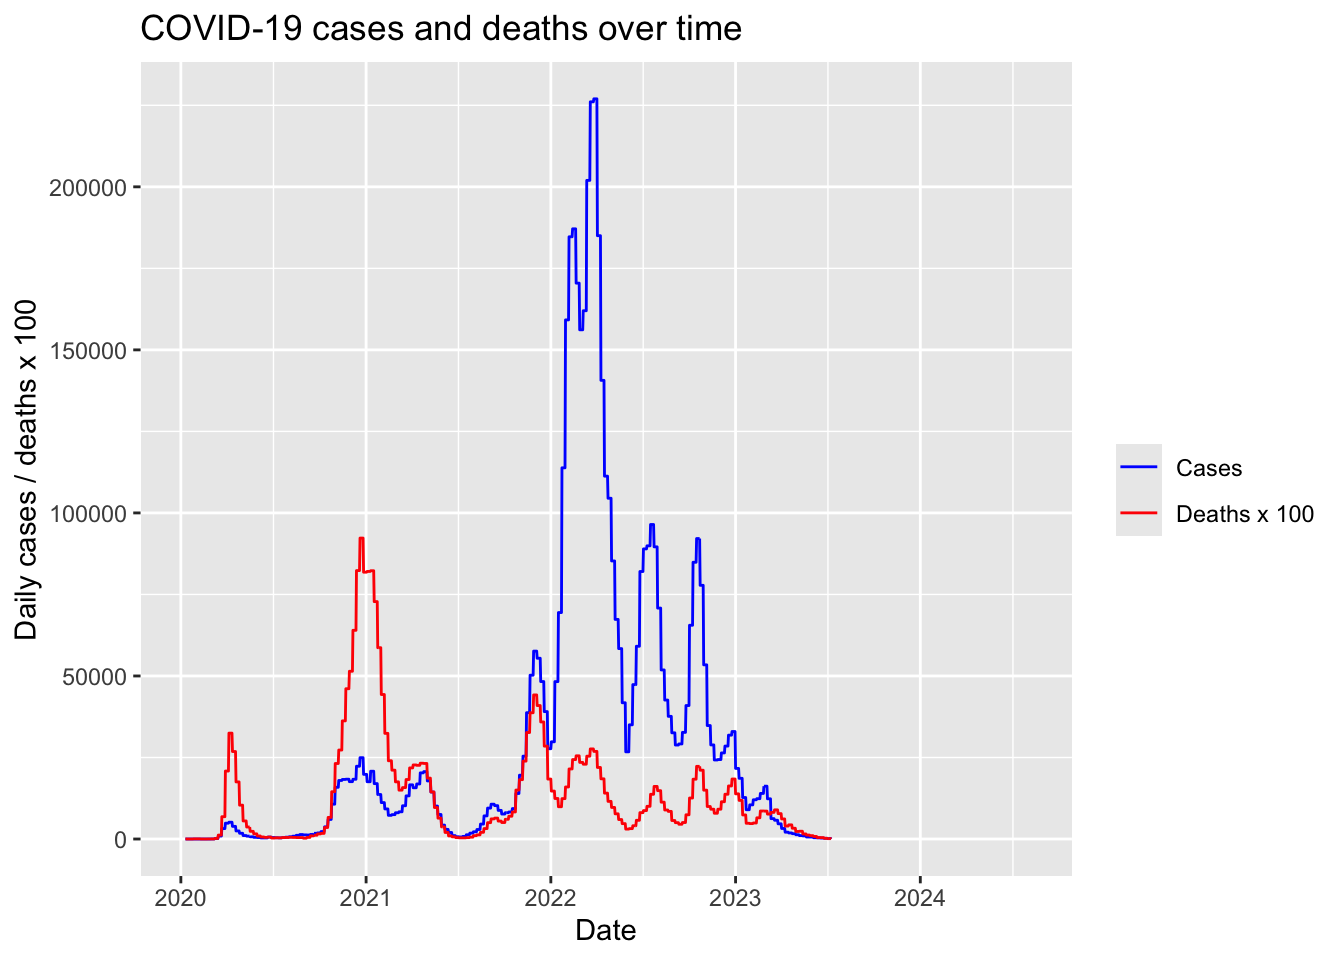
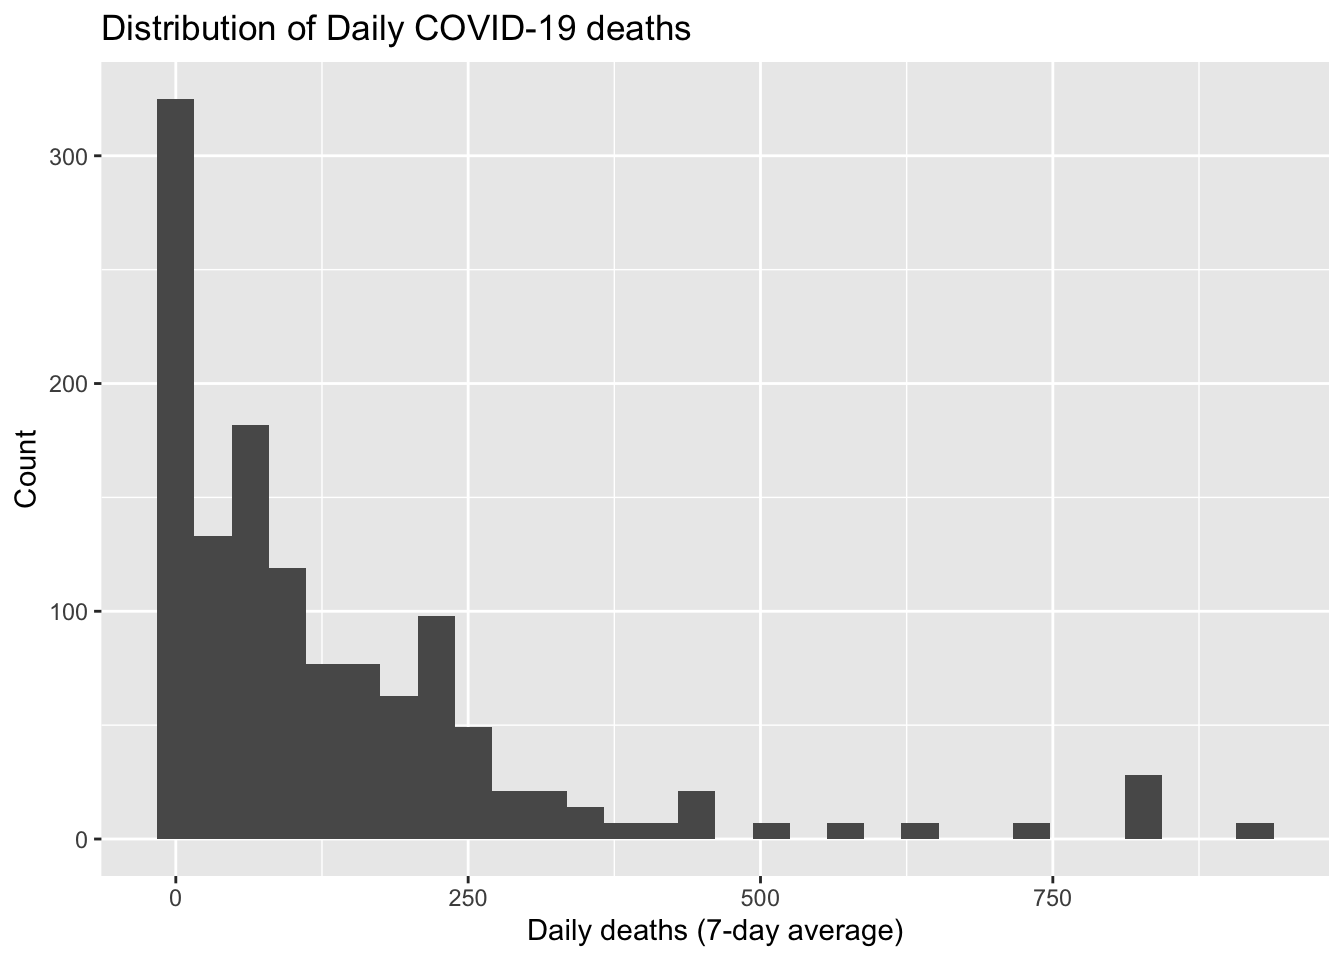
Built site for gh-pages

diff --git a/proposal_website.html b/proposal_website.html
@@ -167,7 +167,11 @@ pre > code.sourceCode > span > a:first-child::before { text-decoration: underlin
     <h2 id="toc-title">On this page</h2>
    
   <ul>
-  <li><a href="#research-questions" id="toc-research-questions" class="nav-link active" data-scroll-target="#research-questions">Research Questions</a>
+  <li><a href="#proposal-for-statprog2-projekt" id="toc-proposal-for-statprog2-projekt" class="nav-link active" data-scroll-target="#proposal-for-statprog2-projekt"><strong><em>Proposal for StatProg2 Projekt</em></strong></a>
+  <ul class="collapse">
+  <li><a href="#dataset-and-research-questions" id="toc-dataset-and-research-questions" class="nav-link" data-scroll-target="#dataset-and-research-questions">Dataset and research questions:</a></li>
+  <li><a href="#what-is-in-the-data-set" id="toc-what-is-in-the-data-set" class="nav-link" data-scroll-target="#what-is-in-the-data-set">What is in the data set?</a></li>
+  <li><a href="#research-questions" id="toc-research-questions" class="nav-link" data-scroll-target="#research-questions">Research Questions</a>
   <ul class="collapse">
   <li><a href="#question-1-how-did-vaccination-coverage-in-germany-develop-during-the-covid-19-pandemic" id="toc-question-1-how-did-vaccination-coverage-in-germany-develop-during-the-covid-19-pandemic" class="nav-link" data-scroll-target="#question-1-how-did-vaccination-coverage-in-germany-develop-during-the-covid-19-pandemic">Question 1: How did vaccination coverage in Germany develop during the COVID-19 pandemic?</a></li>
   <li><a href="#question-2-how-did-vaccination-coverage-relate-to-different-dimensions-of-covid-19-severity-in-germany" id="toc-question-2-how-did-vaccination-coverage-relate-to-different-dimensions-of-covid-19-severity-in-germany" class="nav-link" data-scroll-target="#question-2-how-did-vaccination-coverage-relate-to-different-dimensions-of-covid-19-severity-in-germany">Question 2: How did vaccination coverage relate to different dimensions of COVID-19 severity in Germany?</a></li>
@@ -183,6 +187,7 @@ pre > code.sourceCode > span > a:first-child::before { text-decoration: underlin
   <ul class="collapse">
   <li><a href="#research-question-1" id="toc-research-question-1" class="nav-link" data-scroll-target="#research-question-1">Research Question 1</a></li>
   </ul></li>
+  </ul></li>
   </ul>
 </nav>
     </div>
@@ -192,13 +197,91 @@ pre > code.sourceCode > span > a:first-child::before { text-decoration: underlin
 
 
 
+<section id="proposal-for-statprog2-projekt" class="level1">
+<h1><strong><em>Proposal for StatProg2 Projekt</em></strong></h1>
+<section id="by-lukas-seibold-and-felix-obermaier" class="level4">
+<h4 class="anchored" data-anchor-id="by-lukas-seibold-and-felix-obermaier">by Lukas Seibold and Felix Obermaier</h4>
+</section>
+<section id="dataset-and-research-questions" class="level2">
+<h2 class="anchored" data-anchor-id="dataset-and-research-questions">Dataset and research questions:</h2>
+<ul>
+<li><p><strong>Source and licence:</strong></p>
+<ul>
+<li><p>The Data set is from the following website: <a href="https://ourworldindata.org/explorers/covid?Metric=Excess+mortality+%28estimates%29&amp;Interval=Cumulative&amp;Relative+to+population=true&amp;country=USA~BRA~JPN~DEU">OWID - Covid Dataset</a></p></li>
+<li><p>It can be downloaded in the following github repository: <a href="https://github.com/owid/covid-19-data/tree/master/public/data">OWID - github repository COVID</a></p></li>
+<li><p>The dataset is called owid-covid-data.csv</p></li>
+<li><p>The Dataset contains all Data on Covid in the years 2020 - 2024 in all countries of the world</p></li>
+<li><p>We decided we only want to look at german Data on covid so we filtered it by country</p></li>
+<li><p>Then we cleaned it, by removing all variables, that only contained NAs (6 variables removed)</p></li>
+<li><p>We documented the complete cleaning process in a seperate file called data_cleaning_covid.qmd, which can be found in our github repository. All of the data we used is stored there as well in the folder “data”.</p></li>
+</ul></li>
+</ul>
+<div class="cell">
+<div class="code-copy-outer-scaffold"><div class="sourceCode cell-code" id="cb1"><pre class="sourceCode r code-with-copy"><code class="sourceCode r"><span id="cb1-1"><a href="#cb1-1" aria-hidden="true" tabindex="-1"></a><span class="fu">library</span>(readr)</span>
+<span id="cb1-2"><a href="#cb1-2" aria-hidden="true" tabindex="-1"></a><span class="fu">library</span>(tidyverse)</span>
+<span id="cb1-3"><a href="#cb1-3" aria-hidden="true" tabindex="-1"></a></span>
+<span id="cb1-4"><a href="#cb1-4" aria-hidden="true" tabindex="-1"></a>covid_germany <span class="ot">&lt;-</span> <span class="fu">read_delim</span>(<span class="st">"data/covid_germany.csv"</span>)</span></code></pre></div><button title="Copy to Clipboard" class="code-copy-button"><i class="bi"></i></button></div>
+</div>
+<ul>
+<li><p><strong>Licence:</strong></p>
+<ul>
+<li><p>The <em>Our World in Data Covid Dataset</em> combines COVID-19 data from several official and scientific sources, including:</p>
+<ul>
+<li><p><a href="https://github.com/CSSEGISandData/COVID-19?utm_source=chatgpt.com">Johns Hopkins University (JHU CSSE)</a> for confirmed cases and deaths</p></li>
+<li><p>official national health authorities for vaccination and hospitalization data</p></li>
+<li><p>the <a href="https://www.bsg.ox.ac.uk/research/research-projects/covid-19-government-response-tracker?utm_source=chatgpt.com">Oxford COVID‑19 Government Response Tracker</a> for policy measures</p></li>
+<li><p>international organizations such as the UN, World Bank, OECD, and IHME for demographic and socioeconomic indicators.</p></li>
+</ul>
+<p>The dataset is published under the <strong>Creative Commons Attribution (CC BY) license</strong>.</p>
+<p>This license allows users to:</p>
+<ul>
+<li><p>use the data freely,</p></li>
+<li><p>copy and redistribute it,</p></li>
+<li><p>modify and adapt it,</p></li>
+<li><p>use it commercially,</p></li>
+<li><p>and include it in research or presentations,</p></li>
+</ul>
+<p>as long as proper attribution to Our World in Data and the original data sources is provided.</p></li>
+</ul></li>
+</ul>
+</section>
+<section id="what-is-in-the-data-set" class="level2">
+<h2 class="anchored" data-anchor-id="what-is-in-the-data-set">What is in the data set?</h2>
+<p>The data set contains daily COVID-19 observations for Germany from January 2020 until August 2024.</p>
+<ul>
+<li>Number of rows: 1674</li>
+<li>Number of columns: 61</li>
+</ul>
+<p>Each row represents one day of reported COVID-19 data in Germany.</p>
+<p>The data set includes information on:</p>
+<ul>
+<li>COVID-19 cases (e.g.&nbsp;<code>total_cases</code>, <code>new_cases</code>, <code>new_cases_smoothed</code>)</li>
+<li>COVID-19 deaths (e.g.&nbsp;<code>total_deaths</code>, <code>new_deaths</code>)</li>
+<li>Reproduction rate (<code>reproduction_rate</code>)</li>
+<li>Hospital and ICU patients (<code>hosp_patients</code>, <code>icu_patients</code>)</li>
+<li>Vaccination indicators</li>
+<li>Testing statistics</li>
+<li>Socioeconomic indicators and demographic variables</li>
+</ul>
+<p>The key variables we expect to use are:</p>
+<ul>
+<li><code>date</code></li>
+<li><code>new_cases</code></li>
+<li><code>new_cases_smoothed</code></li>
+<li><code>total_cases</code></li>
+<li><code>new_deaths</code></li>
+<li><code>total_deaths</code></li>
+<li><code>reproduction_rate</code></li>
+</ul>
+<p>Throughout this project, we primarily use the smoothed variables provided in the dataset whenever they are available. Daily COVID-19 data are affected by reporting delays and systematic weekend effects, which can introduce artificial fluctuations in the time series. The smoothed variables reduce these short-term irregularities and therefore provide a better representation of the underlying trends that are relevant for our analyses. Unless otherwise stated, all analyses are based on the smoothed versions of the variables.</p>
+</section>
 <section id="research-questions" class="level2">
 <h2 class="anchored" data-anchor-id="research-questions">Research Questions</h2>
 <section id="question-1-how-did-vaccination-coverage-in-germany-develop-during-the-covid-19-pandemic" class="level3">
 <h3 class="anchored" data-anchor-id="question-1-how-did-vaccination-coverage-in-germany-develop-during-the-covid-19-pandemic">Question 1: How did vaccination coverage in Germany develop during the COVID-19 pandemic?</h3>
 <p>We will analyse <code>people_fully_vaccinated_per_hundred</code> together with <code>new_vaccinations_smoothed</code> and <code>date</code>, to analyse the development of COVID-19 vaccination coverage in Germany. Using line plots and descriptive statistics, we will identify the start of the vaccination campaign, periods of rapid vaccine uptake, peak vaccination activity, and the later plateau in vaccination coverage.</p>
 <p><strong>Goal:</strong> Descriptive</p>
-<p><strong>Type:</strong> Confirmatory</p>
+<p><strong>Type:</strong> Exploratory</p>
 <hr>
 </section>
 <section id="question-2-how-did-vaccination-coverage-relate-to-different-dimensions-of-covid-19-severity-in-germany" class="level3">
@@ -241,29 +324,29 @@ pre > code.sourceCode > span > a:first-child::before { text-decoration: underlin
 <h4 class="anchored" data-anchor-id="structure-of-the-data">Structure of the data</h4>
 <p>We use <code>glimpse()</code> to confirm the dimensions and data types of our key variables.</p>
 <div class="cell">
-<div class="code-copy-outer-scaffold"><div class="sourceCode cell-code" id="cb1"><pre class="sourceCode r code-with-copy"><code class="sourceCode r"><span id="cb1-1"><a href="#cb1-1" aria-hidden="true" tabindex="-1"></a>covid_germany <span class="sc">%&gt;%</span></span>
-<span id="cb1-2"><a href="#cb1-2" aria-hidden="true" tabindex="-1"></a>  <span class="fu">select</span>(</span>
-<span id="cb1-3"><a href="#cb1-3" aria-hidden="true" tabindex="-1"></a>    date, total_cases, new_cases, new_cases_smoothed,</span>
-<span id="cb1-4"><a href="#cb1-4" aria-hidden="true" tabindex="-1"></a>    total_deaths, new_deaths, new_deaths_smoothed,</span>
-<span id="cb1-5"><a href="#cb1-5" aria-hidden="true" tabindex="-1"></a>    reproduction_rate, icu_patients, hosp_patients,</span>
-<span id="cb1-6"><a href="#cb1-6" aria-hidden="true" tabindex="-1"></a>    people_vaccinated_per_hundred, people_fully_vaccinated_per_hundred,</span>
-<span id="cb1-7"><a href="#cb1-7" aria-hidden="true" tabindex="-1"></a>    stringency_index</span>
-<span id="cb1-8"><a href="#cb1-8" aria-hidden="true" tabindex="-1"></a>  ) <span class="sc">%&gt;%</span></span>
-<span id="cb1-9"><a href="#cb1-9" aria-hidden="true" tabindex="-1"></a>  <span class="fu">glimpse</span>()</span></code></pre></div><button title="Copy to Clipboard" class="code-copy-button"><i class="bi"></i></button></div>
+<div class="code-copy-outer-scaffold"><div class="sourceCode cell-code" id="cb2"><pre class="sourceCode r code-with-copy"><code class="sourceCode r"><span id="cb2-1"><a href="#cb2-1" aria-hidden="true" tabindex="-1"></a>covid_germany <span class="sc">%&gt;%</span></span>
+<span id="cb2-2"><a href="#cb2-2" aria-hidden="true" tabindex="-1"></a>  <span class="fu">select</span>(</span>
+<span id="cb2-3"><a href="#cb2-3" aria-hidden="true" tabindex="-1"></a>    date, total_cases, new_cases, new_cases_smoothed,</span>
+<span id="cb2-4"><a href="#cb2-4" aria-hidden="true" tabindex="-1"></a>    total_deaths, new_deaths, new_deaths_smoothed,</span>
+<span id="cb2-5"><a href="#cb2-5" aria-hidden="true" tabindex="-1"></a>    reproduction_rate, icu_patients,</span>
+<span id="cb2-6"><a href="#cb2-6" aria-hidden="true" tabindex="-1"></a>    people_vaccinated_per_hundred, people_fully_vaccinated_per_hundred,</span>
+<span id="cb2-7"><a href="#cb2-7" aria-hidden="true" tabindex="-1"></a>    stringency_index</span>
+<span id="cb2-8"><a href="#cb2-8" aria-hidden="true" tabindex="-1"></a>  ) <span class="sc">%&gt;%</span></span>
+<span id="cb2-9"><a href="#cb2-9" aria-hidden="true" tabindex="-1"></a>  <span class="fu">glimpse</span>()</span></code></pre></div><button title="Copy to Clipboard" class="code-copy-button"><i class="bi"></i></button></div>
 </div>
 <p>The structure matches our expectations: <code>date</code> is read as a proper <code>date</code> type and all measurement and count variables are numeric. Cumulative variables (<code>total_cases</code>, <code>total_deaths</code>) are present from the start, while smoothed, reproduction, ICU, and vaccination variables only begin later in the pandemic, which is reflected in the leading <code>NA</code> values.</p>
 </section>
 <section id="summary-statistics-for-key-variables" class="level4">
 <h4 class="anchored" data-anchor-id="summary-statistics-for-key-variables">Summary statistics for key variables</h4>
 <div class="cell">
-<div class="code-copy-outer-scaffold"><div class="sourceCode cell-code" id="cb2"><pre class="sourceCode r code-with-copy"><code class="sourceCode r"><span id="cb2-1"><a href="#cb2-1" aria-hidden="true" tabindex="-1"></a>covid_germany <span class="sc">%&gt;%</span></span>
-<span id="cb2-2"><a href="#cb2-2" aria-hidden="true" tabindex="-1"></a>  <span class="fu">select</span>(</span>
-<span id="cb2-3"><a href="#cb2-3" aria-hidden="true" tabindex="-1"></a>    new_cases, new_cases_smoothed, new_deaths, new_deaths_smoothed,</span>
-<span id="cb2-4"><a href="#cb2-4" aria-hidden="true" tabindex="-1"></a>    reproduction_rate, icu_patients,</span>
-<span id="cb2-5"><a href="#cb2-5" aria-hidden="true" tabindex="-1"></a>    people_vaccinated_per_hundred, people_fully_vaccinated_per_hundred,</span>
-<span id="cb2-6"><a href="#cb2-6" aria-hidden="true" tabindex="-1"></a>    stringency_index</span>
-<span id="cb2-7"><a href="#cb2-7" aria-hidden="true" tabindex="-1"></a>  ) <span class="sc">%&gt;%</span></span>
-<span id="cb2-8"><a href="#cb2-8" aria-hidden="true" tabindex="-1"></a>  <span class="fu">summary</span>()</span></code></pre></div><button title="Copy to Clipboard" class="code-copy-button"><i class="bi"></i></button></div>
+<div class="code-copy-outer-scaffold"><div class="sourceCode cell-code" id="cb3"><pre class="sourceCode r code-with-copy"><code class="sourceCode r"><span id="cb3-1"><a href="#cb3-1" aria-hidden="true" tabindex="-1"></a>covid_germany <span class="sc">%&gt;%</span></span>
+<span id="cb3-2"><a href="#cb3-2" aria-hidden="true" tabindex="-1"></a>  <span class="fu">select</span>(</span>
+<span id="cb3-3"><a href="#cb3-3" aria-hidden="true" tabindex="-1"></a>    new_cases, new_cases_smoothed, new_deaths, new_deaths_smoothed,</span>
+<span id="cb3-4"><a href="#cb3-4" aria-hidden="true" tabindex="-1"></a>    reproduction_rate, icu_patients,</span>
+<span id="cb3-5"><a href="#cb3-5" aria-hidden="true" tabindex="-1"></a>    people_vaccinated_per_hundred, people_fully_vaccinated_per_hundred,</span>
+<span id="cb3-6"><a href="#cb3-6" aria-hidden="true" tabindex="-1"></a>    stringency_index</span>
+<span id="cb3-7"><a href="#cb3-7" aria-hidden="true" tabindex="-1"></a>  ) <span class="sc">%&gt;%</span></span>
+<span id="cb3-8"><a href="#cb3-8" aria-hidden="true" tabindex="-1"></a>  <span class="fu">summary</span>()</span></code></pre></div><button title="Copy to Clipboard" class="code-copy-button"><i class="bi"></i></button></div>
 </div>
 <p>The table below reports the main summary statistics together with the number of missing values per variable.</p>
 <table class="caption-top table">
@@ -371,7 +454,7 @@ pre > code.sourceCode > span > a:first-child::before { text-decoration: underlin
 <div class="cell-output-display">
 <div>
 <figure class="figure">
-<p><img src="proposal_website_files/figure-html/unnamed-chunk-3-1.png" class="img-fluid figure-img" width="672"></p>
+<p><img src="proposal_website_files/figure-html/unnamed-chunk-4-1.png" class="img-fluid figure-img" width="672"></p>
 </figure>
 </div>
 </div>
@@ -387,7 +470,7 @@ Removed 397 rows containing missing values or values outside the scale range
 <div class="cell-output-display">
 <div>
 <figure class="figure">
-<p><img src="proposal_website_files/figure-html/unnamed-chunk-4-1.png" class="img-fluid figure-img" width="672"></p>
+<p><img src="proposal_website_files/figure-html/unnamed-chunk-5-1.png" class="img-fluid figure-img" width="672"></p>
 </figure>
 </div>
 </div>
@@ -438,72 +521,7 @@ Removed 397 rows containing missing values or values outside the scale range
 <section id="can-the-data-support-our-rq1-sanity-check" class="level4">
 <h4 class="anchored" data-anchor-id="can-the-data-support-our-rq1-sanity-check">Can the data support our RQ1? – Sanity Check</h4>
 <div class="cell">
-<div class="code-copy-outer-scaffold"><div class="sourceCode cell-code" id="cb5"><pre class="sourceCode r code-with-copy"><code class="sourceCode r"><span id="cb5-1"><a href="#cb5-1" aria-hidden="true" tabindex="-1"></a><span class="fu">glimpse</span>(covid_germany)</span></code></pre></div><button title="Copy to Clipboard" class="code-copy-button"><i class="bi"></i></button></div>
-<div class="cell-output cell-output-stdout">
-<pre><code>Rows: 1,674
-Columns: 61
-$ iso_code                                   &lt;chr&gt; "DEU", "DEU", "DEU", "DEU",…
-$ continent                                  &lt;chr&gt; "Europe", "Europe", "Europe…
-$ location                                   &lt;chr&gt; "Germany", "Germany", "Germ…
-$ date                                       &lt;date&gt; 2020-01-05, 2020-01-06, 20…
-$ total_cases                                &lt;dbl&gt; 1, 1, 1, 1, 1, 1, 1, 1, 1, …
-$ new_cases                                  &lt;dbl&gt; 1, 0, 0, 0, 0, 0, 0, 0, 0, …
-$ new_cases_smoothed                         &lt;dbl&gt; NA, NA, NA, NA, NA, 0.14, 0…
-$ total_deaths                               &lt;dbl&gt; 3, 3, 3, 3, 3, 3, 3, 3, 3, …
-$ new_deaths                                 &lt;dbl&gt; 3, 0, 0, 0, 0, 0, 0, 0, 0, …
-$ new_deaths_smoothed                        &lt;dbl&gt; NA, NA, NA, NA, NA, 0.43, 0…
-$ total_cases_per_million                    &lt;dbl&gt; 0.01, 0.01, 0.01, 0.01, 0.0…
-$ new_cases_per_million                      &lt;dbl&gt; 0.01, 0.00, 0.00, 0.00, 0.0…
-$ new_cases_smoothed_per_million             &lt;dbl&gt; NA, NA, NA, NA, NA, 0, 0, 0…
-$ total_deaths_per_million                   &lt;dbl&gt; 0.04, 0.04, 0.04, 0.04, 0.0…
-$ new_deaths_per_million                     &lt;dbl&gt; 0.04, 0.00, 0.00, 0.00, 0.0…
-$ new_deaths_smoothed_per_million            &lt;dbl&gt; NA, NA, NA, NA, NA, 0, 0, 0…
-$ reproduction_rate                          &lt;dbl&gt; NA, NA, NA, NA, NA, NA, NA,…
-$ icu_patients                               &lt;dbl&gt; NA, NA, NA, NA, NA, NA, NA,…
-$ icu_patients_per_million                   &lt;dbl&gt; NA, NA, NA, NA, NA, NA, NA,…
-$ weekly_icu_admissions                      &lt;dbl&gt; NA, NA, NA, NA, NA, NA, NA,…
-$ weekly_icu_admissions_per_million          &lt;dbl&gt; NA, NA, NA, NA, NA, NA, NA,…
-$ weekly_hosp_admissions                     &lt;dbl&gt; NA, NA, NA, NA, NA, NA, NA,…
-$ weekly_hosp_admissions_per_million         &lt;dbl&gt; NA, NA, NA, NA, NA, NA, NA,…
-$ total_tests                                &lt;dbl&gt; NA, NA, NA, NA, NA, NA, NA,…
-$ total_tests_per_thousand                   &lt;dbl&gt; NA, NA, NA, NA, NA, NA, NA,…
-$ new_tests_smoothed                         &lt;dbl&gt; NA, NA, NA, NA, NA, NA, NA,…
-$ new_tests_smoothed_per_thousand            &lt;dbl&gt; NA, NA, NA, NA, NA, NA, NA,…
-$ positive_rate                              &lt;dbl&gt; NA, NA, NA, NA, NA, NA, NA,…
-$ tests_per_case                             &lt;dbl&gt; NA, NA, NA, NA, NA, NA, NA,…
-$ tests_units                                &lt;chr&gt; NA, NA, NA, NA, NA, NA, NA,…
-$ total_vaccinations                         &lt;dbl&gt; NA, NA, NA, NA, NA, NA, NA,…
-$ people_vaccinated                          &lt;dbl&gt; NA, NA, NA, NA, NA, NA, NA,…
-$ people_fully_vaccinated                    &lt;dbl&gt; NA, NA, NA, NA, NA, NA, NA,…
-$ total_boosters                             &lt;dbl&gt; NA, NA, NA, NA, NA, NA, NA,…
-$ new_vaccinations                           &lt;dbl&gt; NA, NA, NA, NA, NA, NA, NA,…
-$ new_vaccinations_smoothed                  &lt;dbl&gt; NA, NA, NA, NA, NA, NA, NA,…
-$ total_vaccinations_per_hundred             &lt;dbl&gt; NA, NA, NA, NA, NA, NA, NA,…
-$ people_vaccinated_per_hundred              &lt;dbl&gt; NA, NA, NA, NA, NA, NA, NA,…
-$ people_fully_vaccinated_per_hundred        &lt;dbl&gt; NA, NA, NA, NA, NA, NA, NA,…
-$ total_boosters_per_hundred                 &lt;dbl&gt; NA, NA, NA, NA, NA, NA, NA,…
-$ new_vaccinations_smoothed_per_million      &lt;dbl&gt; NA, NA, NA, NA, NA, NA, NA,…
-$ new_people_vaccinated_smoothed             &lt;dbl&gt; NA, NA, NA, NA, NA, NA, NA,…
-$ new_people_vaccinated_smoothed_per_hundred &lt;dbl&gt; NA, NA, NA, NA, NA, NA, NA,…
-$ stringency_index                           &lt;dbl&gt; 0.00, 0.00, 0.00, 0.00, 0.0…
-$ population_density                         &lt;dbl&gt; 237.02, 237.02, 237.02, 237…
-$ median_age                                 &lt;dbl&gt; 46.6, 46.6, 46.6, 46.6, 46.…
-$ aged_65_older                              &lt;dbl&gt; 21.45, 21.45, 21.45, 21.45,…
-$ aged_70_older                              &lt;dbl&gt; 15.96, 15.96, 15.96, 15.96,…
-$ gdp_per_capita                             &lt;dbl&gt; 45229.24, 45229.24, 45229.2…
-$ cardiovasc_death_rate                      &lt;dbl&gt; 156.14, 156.14, 156.14, 156…
-$ diabetes_prevalence                        &lt;dbl&gt; 8.31, 8.31, 8.31, 8.31, 8.3…
-$ female_smokers                             &lt;dbl&gt; 28.2, 28.2, 28.2, 28.2, 28.…
-$ male_smokers                               &lt;dbl&gt; 33.1, 33.1, 33.1, 33.1, 33.…
-$ hospital_beds_per_thousand                 &lt;dbl&gt; 8, 8, 8, 8, 8, 8, 8, 8, 8, …
-$ life_expectancy                            &lt;dbl&gt; 81.33, 81.33, 81.33, 81.33,…
-$ human_development_index                    &lt;dbl&gt; 0.95, 0.95, 0.95, 0.95, 0.9…
-$ population                                 &lt;dbl&gt; 83369840, 83369840, 8336984…
-$ excess_mortality_cumulative_absolute       &lt;dbl&gt; -760.7, NA, NA, NA, NA, NA,…
-$ excess_mortality_cumulative                &lt;dbl&gt; -3.87, NA, NA, NA, NA, NA, …
-$ excess_mortality                           &lt;dbl&gt; -3.87, NA, NA, NA, NA, NA, …
-$ excess_mortality_cumulative_per_million    &lt;dbl&gt; -9.13, NA, NA, NA, NA, NA, …</code></pre>
-</div>
+<div class="code-copy-outer-scaffold"><div class="sourceCode cell-code" id="cb6"><pre class="sourceCode r code-with-copy"><code class="sourceCode r"><span id="cb6-1"><a href="#cb6-1" aria-hidden="true" tabindex="-1"></a><span class="fu">glimpse</span>(covid_germany)</span></code></pre></div><button title="Copy to Clipboard" class="code-copy-button"><i class="bi"></i></button></div>
 </div>
 <p>We confirmed that <code>date</code>, <code>people_fully_vaccinated_per_hundred</code> and <code>new_vaccinations_smoothed</code>have the correct data types in order for us to create the planned line plot (Date and double) using glimpse().</p>
 <div class="cell">
@@ -518,7 +536,7 @@ $ excess_mortality_cumulative_per_million    &lt;dbl&gt; -9.13, NA, NA, NA, NA, 
 <span id="cb7-9"><a href="#cb7-9" aria-hidden="true" tabindex="-1"></a>  <span class="fu">mutate</span>(<span class="at">gap =</span> <span class="fu">as.numeric</span>(date <span class="sc">-</span> <span class="fu">lag</span>(date))) <span class="sc">%&gt;%</span></span>
 <span id="cb7-10"><a href="#cb7-10" aria-hidden="true" tabindex="-1"></a>  <span class="fu">summarise</span>(<span class="at">max_gap =</span> <span class="fu">max</span>(gap, <span class="at">na.rm =</span> <span class="cn">TRUE</span>))</span></code></pre></div><button title="Copy to Clipboard" class="code-copy-button"><i class="bi"></i></button></div>
 </div>
-<p>The Data coverage on vaccination stars in January of 2021 and ends in July of 2023. In this time range the data coverage is very good with a maximum gap of 1 day without coverage.</p>
+<p>The Data coverage on vaccination starts in January of 2021 and ends in July of 2023. In this time range the data coverage is very good with a maximum gap of 1 day without coverage.</p>
 <div class="cell">
 <div class="code-copy-outer-scaffold"><div class="sourceCode cell-code" id="cb8"><pre class="sourceCode r code-with-copy"><code class="sourceCode r"><span id="cb8-1"><a href="#cb8-1" aria-hidden="true" tabindex="-1"></a><span class="co">#check variable new_vaccinations_smoothed</span></span>
 <span id="cb8-2"><a href="#cb8-2" aria-hidden="true" tabindex="-1"></a>covid_germany <span class="sc">%&gt;%</span></span>
@@ -544,8 +562,28 @@ $ excess_mortality_cumulative_per_million    &lt;dbl&gt; -9.13, NA, NA, NA, NA, 
 <span id="cb9-8"><a href="#cb9-8" aria-hidden="true" tabindex="-1"></a>  )</span></code></pre></div><button title="Copy to Clipboard" class="code-copy-button"><i class="bi"></i></button></div>
 </div>
 <p>The variation of values as well as the variance of <code>new_vaccinations_smoothed</code> is also going to be sufficient to answer our research question.</p>
+<div class="cell">
+<div class="code-copy-outer-scaffold"><div class="sourceCode cell-code" id="cb10"><pre class="sourceCode r code-with-copy"><code class="sourceCode r"><span id="cb10-1"><a href="#cb10-1" aria-hidden="true" tabindex="-1"></a>covid_germany <span class="sc">%&gt;%</span> <span class="fu">filter</span>(<span class="sc">!</span><span class="fu">is.na</span>(people_fully_vaccinated_per_hundred)) <span class="sc">%&gt;%</span> <span class="fu">ggplot</span>(<span class="fu">aes</span>(</span>
+<span id="cb10-2"><a href="#cb10-2" aria-hidden="true" tabindex="-1"></a>  <span class="at">x =</span> date,</span>
+<span id="cb10-3"><a href="#cb10-3" aria-hidden="true" tabindex="-1"></a>  <span class="at">y =</span> people_fully_vaccinated_per_hundred</span>
+<span id="cb10-4"><a href="#cb10-4" aria-hidden="true" tabindex="-1"></a>))<span class="sc">+</span></span>
+<span id="cb10-5"><a href="#cb10-5" aria-hidden="true" tabindex="-1"></a>  <span class="fu">geom_line</span>()<span class="sc">+</span></span>
+<span id="cb10-6"><a href="#cb10-6" aria-hidden="true" tabindex="-1"></a>  <span class="fu">labs</span>(<span class="at">title =</span> <span class="st">"Development of vaccination coverage in Germany during Covid"</span>,</span>
+<span id="cb10-7"><a href="#cb10-7" aria-hidden="true" tabindex="-1"></a>       <span class="at">x =</span> <span class="cn">NULL</span>,</span>
+<span id="cb10-8"><a href="#cb10-8" aria-hidden="true" tabindex="-1"></a>       <span class="at">y =</span> <span class="st">"People fully vaccinated per hundred"</span>,</span>
+<span id="cb10-9"><a href="#cb10-9" aria-hidden="true" tabindex="-1"></a>       <span class="at">caption =</span> <span class="st">"Source: Our World in Data COVID-19 dataset"</span>)<span class="sc">+</span></span>
+<span id="cb10-10"><a href="#cb10-10" aria-hidden="true" tabindex="-1"></a>  <span class="fu">theme_minimal</span>()</span></code></pre></div><button title="Copy to Clipboard" class="code-copy-button"><i class="bi"></i></button></div>
+<div class="cell-output-display">
+<div>
+<figure class="figure">
+<p><img src="proposal_website_files/figure-html/unnamed-chunk-10-1.png" class="img-fluid figure-img" alt="Line chart showing the share of people fully vaccinated against COVID-19 in Germany from late 2020 to 2023. The line starts near zero in early 2021, rises steeply through 2021, and then levels off at around 76 percent." width="672"></p>
+</figure>
+</div>
+</div>
+</div>
 
 
+</section>
 </section>
 </section>
 </section>
@@ -624,7 +662,7 @@ $ excess_mortality_cumulative_per_million    &lt;dbl&gt; -9.13, NA, NA, NA, NA, 
     }
       var localhostRegex = new RegExp(/^(?:http|https):\/\/localhost\:?[0-9]*\//);
       var mailtoRegex = new RegExp(/^mailto:/);
-        var filterRegex = new RegExp('/' + window.location.host + '/');
+        var filterRegex = new RegExp("https:\/\/Felixobr\.github\.io\/statprog2_project\/");
       var isInternal = (href) => {
           return filterRegex.test(href) || localhostRegex.test(href) || mailtoRegex.test(href);
       }

diff --git a/about.html b/about.html
@@ -282,7 +282,7 @@ ul.task-list li input[type="checkbox"] {
     }
       var localhostRegex = new RegExp(/^(?:http|https):\/\/localhost\:?[0-9]*\//);
       var mailtoRegex = new RegExp(/^mailto:/);
-        var filterRegex = new RegExp('/' + window.location.host + '/');
+        var filterRegex = new RegExp("https:\/\/Felixobr\.github\.io\/statprog2_project\/");
       var isInternal = (href) => {
           return filterRegex.test(href) || localhostRegex.test(href) || mailtoRegex.test(href);
       }

diff --git a/analysis_website.html b/analysis_website.html
@@ -526,7 +526,7 @@ $ excess_mortality_cumulative_per_million    &lt;dbl&gt; -9.13, NA, NA, NA, NA, 
     }
       var localhostRegex = new RegExp(/^(?:http|https):\/\/localhost\:?[0-9]*\//);
       var mailtoRegex = new RegExp(/^mailto:/);
-        var filterRegex = new RegExp('/' + window.location.host + '/');
+        var filterRegex = new RegExp("https:\/\/Felixobr\.github\.io\/statprog2_project\/");
       var isInternal = (href) => {
           return filterRegex.test(href) || localhostRegex.test(href) || mailtoRegex.test(href);
       }

diff --git a/dataset_website.html b/dataset_website.html
@@ -285,7 +285,7 @@ ul.task-list li input[type="checkbox"] {
     }
       var localhostRegex = new RegExp(/^(?:http|https):\/\/localhost\:?[0-9]*\//);
       var mailtoRegex = new RegExp(/^mailto:/);
-        var filterRegex = new RegExp('/' + window.location.host + '/');
+        var filterRegex = new RegExp("https:\/\/Felixobr\.github\.io\/statprog2_project\/");
       var isInternal = (href) => {
           return filterRegex.test(href) || localhostRegex.test(href) || mailtoRegex.test(href);
       }

diff --git a/index.html b/index.html
@@ -252,7 +252,7 @@ ul.task-list li input[type="checkbox"] {
     }
       var localhostRegex = new RegExp(/^(?:http|https):\/\/localhost\:?[0-9]*\//);
       var mailtoRegex = new RegExp(/^mailto:/);
-        var filterRegex = new RegExp('/' + window.location.host + '/');
+        var filterRegex = new RegExp("https:\/\/Felixobr\.github\.io\/statprog2_project\/");
       var isInternal = (href) => {
           return filterRegex.test(href) || localhostRegex.test(href) || mailtoRegex.test(href);
       }

diff --git a/results_website.html b/results_website.html
@@ -241,7 +241,7 @@ ul.task-list li input[type="checkbox"] {
     }
       var localhostRegex = new RegExp(/^(?:http|https):\/\/localhost\:?[0-9]*\//);
       var mailtoRegex = new RegExp(/^mailto:/);
-        var filterRegex = new RegExp('/' + window.location.host + '/');
+        var filterRegex = new RegExp("https:\/\/Felixobr\.github\.io\/statprog2_project\/");
       var isInternal = (href) => {
           return filterRegex.test(href) || localhostRegex.test(href) || mailtoRegex.test(href);
       }